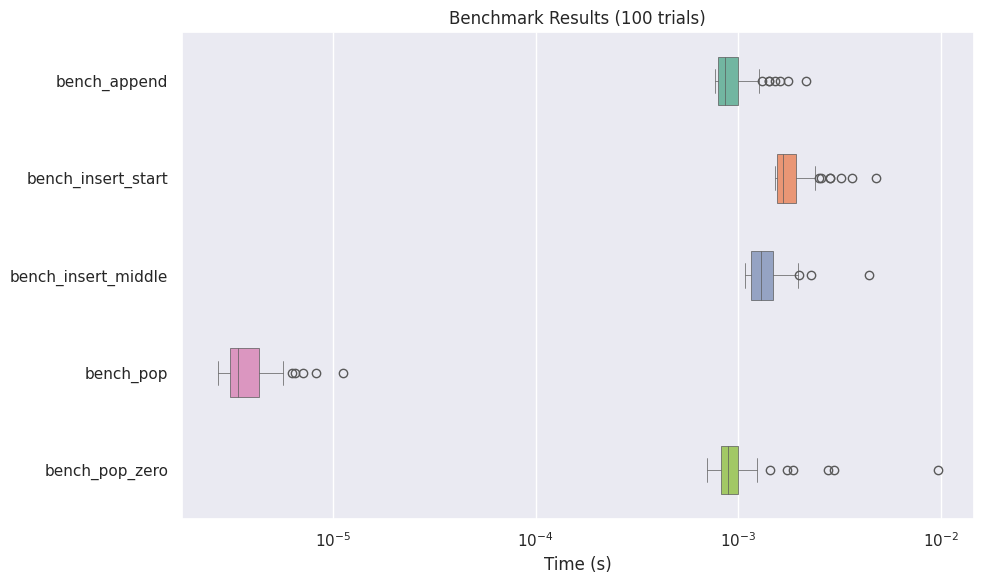
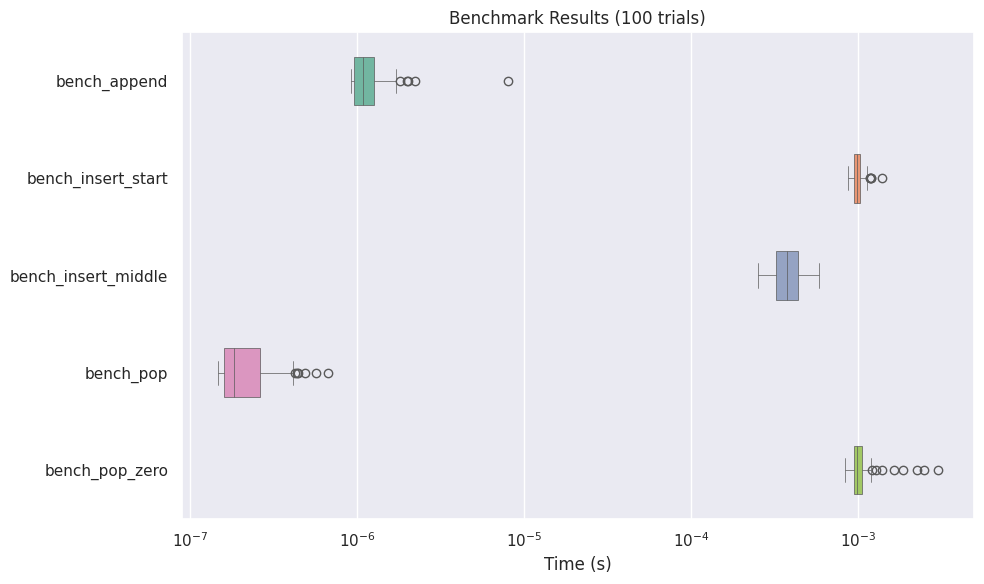
feat: enhance benchmarking accuracy with loops_per_trial parameter and update visualizations

diff --git a/README_ja.md b/README_ja.md
@@ -475,11 +475,6 @@ class MyBenchmark(EasyBench):
 - `True`: tqdmを使用した進捗表示を有効化 (デフォルト)
 - カスタム関数: 独自の進捗表示関数を使用（tqdmインターフェースに準拠する関数）
 
-`progress=True`を設定すると、以下の場面で進捗バーが表示されます：
-- ベンチマークプロセス全体
-- 各ベンチマークメソッドの試行実行
-- パラメータ化されたベンチマークのパラメータセット
-
 ### ウォームアップによる測定精度の向上（`warmups`）
 
 ベンチマーク測定時、初回の実行はコードのコンパイルやキャッシュのウォームアップなど、
@@ -512,6 +507,8 @@ def my_function():
 ### タイマー精度の改善（`loops_per_trial`）
 
 タイマー解像度が低い環境（例：特定の仮想マシンや`time.perf_counter()`の精度が制限されているシステム）では、意味のある計測結果を得るために、関数を複数回実行する必要がある場合があります。
+
+また、非常に高速な処理（数マイクロ秒以下）をベンチマークする場合、関数呼び出し自体のオーバーヘッドが測定結果に大きな影響を与えることがあります。このようなケースでは、`loops_per_trial`パラメータを設定することで、関数呼び出しのオーバーヘッドを分散させ、より正確な測定結果を得ることができます。
 
 `loops_per_trial`パラメータを使用すると、1回の時間測定（試行）で関数を実行する回数を指定できます：
 
@@ -688,13 +685,15 @@ bench_config = BenchConfig(
 これは複数試行間の分布や外れ値を分析するのに役立ちます。
 
 ```python
-from easybench import BenchConfig, EasyBench
+from easybench import BenchConfig, EasyBench, customize
 from easybench.visualization import BoxPlotFormatter, PlotReporter
 
 
 class BenchList(EasyBench):
     bench_config = BenchConfig(
         trials=100,
+        warmups=100,
+        loops_per_trial=100,
         reporters=[
             PlotReporter(
                 BoxPlotFormatter(
@@ -704,14 +703,15 @@ class BenchList(EasyBench):
                     orientation="horizontal", # ボックスプロットの方向（水平または垂直）
                     width=0.5,              # ボックスの幅（seabornのboxplotに直接渡される）
                     linewidth=0.5,          # ラインの太さ（seabornのboxplotに直接渡される）
-                )
-            )
+                ),
+            ),
         ],
     )
 
     def setup_trial(self):
         self.big_list = list(range(1_000_000))
 
+    @customize(loops_per_trial=1000)
     def bench_append(self):
         self.big_list.append(-1)
 
@@ -721,6 +721,7 @@ class BenchList(EasyBench):
     def bench_insert_middle(self):
         self.big_list.insert(len(self.big_list) // 2, -1)
 
+    @customize(loops_per_trial=1000)
     def bench_pop(self):
         self.big_list.pop()
 

diff --git a/README-pypi.md b/README-pypi.md
@@ -510,6 +510,9 @@ When to use:
 
 In environments with poor timer resolution (e.g., certain virtual machines or systems where `time.perf_counter()` has limited precision), you may need to run a function multiple times to get meaningful timing results.
 
+Additionally, when benchmarking very fast operations (less than a few microseconds), the overhead of function calls themselves can significantly impact measurement results.  
+In such cases, using the `loops_per_trial` parameter can help distribute the function call overhead and achieve more accurate measurements.
+
 The `loops_per_trial` parameter allows you to specify how many times a function should be executed in a single timing measurement (trial):
 
 ```python
@@ -684,13 +687,15 @@ bench_config = BenchConfig(
 You can visualize benchmark results as boxplots, which is useful for analyzing distribution and outliers across multiple trials:
 
 ```python
-from easybench import BenchConfig, EasyBench
+from easybench import BenchConfig, EasyBench, customize
 from easybench.visualization import BoxPlotFormatter, PlotReporter
 
 
 class BenchList(EasyBench):
     bench_config = BenchConfig(
         trials=100,
+        warmups=100,
+        loops_per_trial=100,
         reporters=[
             PlotReporter(
                 BoxPlotFormatter(
@@ -700,14 +705,15 @@ class BenchList(EasyBench):
                     orientation="horizontal",  # Horizontal or vertical orientation
                     width=0.5,                 # Box width (passed directly to seaborn's boxplot)
                     linewidth=0.5,             # Line width (passed directly to seaborn's boxplot)
-                )
-            )
+                ),
+            ),
         ],
     )
 
     def setup_trial(self):
         self.big_list = list(range(1_000_000))
 
+    @customize(loops_per_trial=1000)
     def bench_append(self):
         self.big_list.append(-1)
 
@@ -717,6 +723,7 @@ class BenchList(EasyBench):
     def bench_insert_middle(self):
         self.big_list.insert(len(self.big_list) // 2, -1)
 
+    @customize(loops_per_trial=1000)
     def bench_pop(self):
         self.big_list.pop()
 

diff --git a/README.md b/README.md
@@ -508,6 +508,9 @@ When to use:
 
 In environments with poor timer resolution (e.g., certain virtual machines or systems where `time.perf_counter()` has limited precision), you may need to run a function multiple times to get meaningful timing results.
 
+Additionally, when benchmarking very fast operations (less than a few microseconds), the overhead of function calls themselves can significantly impact measurement results.  
+In such cases, using the `loops_per_trial` parameter can help distribute the function call overhead and achieve more accurate measurements.
+
 The `loops_per_trial` parameter allows you to specify how many times a function should be executed in a single timing measurement (trial):
 
 ```python
@@ -683,13 +686,15 @@ bench_config = BenchConfig(
 You can visualize benchmark results as boxplots, which is useful for analyzing distribution and outliers across multiple trials:
 
 ```python
-from easybench import BenchConfig, EasyBench
+from easybench import BenchConfig, EasyBench, customize
 from easybench.visualization import BoxPlotFormatter, PlotReporter
 
 
 class BenchList(EasyBench):
     bench_config = BenchConfig(
         trials=100,
+        warmups=100,
+        loops_per_trial=100,
         reporters=[
             PlotReporter(
                 BoxPlotFormatter(
@@ -699,14 +704,15 @@ class BenchList(EasyBench):
                     orientation="horizontal",  # Horizontal or vertical orientation
                     width=0.5,                 # Box width (passed directly to seaborn's boxplot)
                     linewidth=0.5,             # Line width (passed directly to seaborn's boxplot)
-                )
-            )
+                ),
+            ),
         ],
     )
 
     def setup_trial(self):
         self.big_list = list(range(1_000_000))
 
+    @customize(loops_per_trial=1000)
     def bench_append(self):
         self.big_list.append(-1)
 
@@ -716,6 +722,7 @@ class BenchList(EasyBench):
     def bench_insert_middle(self):
         self.big_list.insert(len(self.big_list) // 2, -1)
 
+    @customize(loops_per_trial=1000)
     def bench_pop(self):
         self.big_list.pop()
 

diff --git a/docs/advanced.md b/docs/advanced.md
@@ -83,30 +83,33 @@ bench_config = BenchConfig(
 You can visualize benchmark results as boxplots, which is useful for analyzing distribution and outliers across multiple trials:
 
 ```python
-from easybench import BenchConfig, EasyBench
+from easybench import BenchConfig, EasyBench, customize
 from easybench.visualization import BoxPlotFormatter, PlotReporter
 
 
 class BenchList(EasyBench):
     bench_config = BenchConfig(
         trials=100,
+        warmups=100,
+        loops_per_trial=100,
         reporters=[
             PlotReporter(
                 BoxPlotFormatter(
-                    showfliers=True,        # Show outliers
-                    log_scale=True,         # Use logarithmic scale
-                    engine="seaborn",       # Use seaborn as plotting engine
-                    orientation="horizontal", # Horizontal or vertical orientation
-                    width=0.5,              # Box width (passed directly to seaborn's boxplot)
-                    linewidth=0.5,          # Line width (passed directly to seaborn's boxplot)
-                )
-            )
+                    showfliers=True,           # Show outliers
+                    log_scale=True,            # Use logarithmic scale
+                    engine="seaborn",          # Use seaborn as plotting engine
+                    orientation="horizontal",  # Horizontal or vertical orientation
+                    width=0.5,                 # Box width (passed directly to seaborn's boxplot)
+                    linewidth=0.5,             # Line width (passed directly to seaborn's boxplot)
+                ),
+            ),
         ],
     )
 
     def setup_trial(self):
         self.big_list = list(range(1_000_000))
 
+    @customize(loops_per_trial=1000)
     def bench_append(self):
         self.big_list.append(-1)
 
@@ -116,6 +119,7 @@ class BenchList(EasyBench):
     def bench_insert_middle(self):
         self.big_list.insert(len(self.big_list) // 2, -1)
 
+    @customize(loops_per_trial=1000)
     def bench_pop(self):
         self.big_list.pop()
 

diff --git a/docs/usage.md b/docs/usage.md
@@ -363,6 +363,9 @@ When to use:
 
 In environments with poor timer resolution (e.g., certain virtual machines or systems where `time.perf_counter()` has limited precision), you may need to run a function multiple times to get meaningful timing results.
 
+Additionally, when benchmarking very fast operations (less than a few microseconds), the overhead of function calls themselves can significantly impact measurement results.  
+In such cases, using the `loops_per_trial` parameter can help distribute the function call overhead and achieve more accurate measurements.
+
 The `loops_per_trial` parameter allows you to specify how many times a function should be executed in a single timing measurement (trial):
 
 ```python
